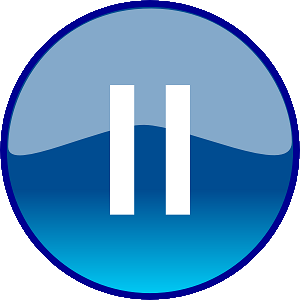
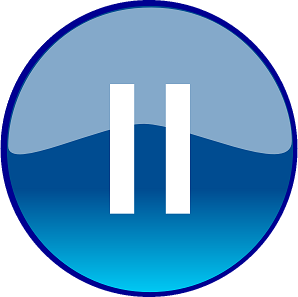
Put pause image on screen and improved the pause image

diff --git a/SpaceArcaders/src/net/awhipple/spacearcaders/views/GameState.java b/SpaceArcaders/src/net/awhipple/spacearcaders/views/GameState.java
@@ -19,8 +19,7 @@ public class GameState {
     
     private ResourceLibrary resourceLibrary;
     
-    private View curView, gf1, gf2;
-    boolean tabPressed = false;
+    private View curView, gf;
     
     public GameState(int SCREEN_W, int SCREEN_H, int TARGET_FPS) throws SlickException {
         this.screenWidth = SCREEN_W;
@@ -29,19 +28,11 @@ public class GameState {
         
         resourceLibrary = new ResourceLibrary();
         
-        gf1 = new GameField(resourceLibrary, screenWidth, screenHeight, targetFps);
-        gf2 = new GameField(resourceLibrary, screenWidth, screenHeight, targetFps);
-        curView = gf1;
+        gf = new GameField(resourceLibrary, screenWidth, screenHeight, targetFps);
+        curView = gf;
     }
 
     public void update(Input input) {
-        if(!input.isKeyDown(Input.KEY_TAB)) tabPressed = false;
-        if(input.isKeyDown(Input.KEY_TAB) && !tabPressed) {
-            tabPressed = true;
-            if(curView == gf1) curView = gf2;
-            else curView = gf1;
-        }
-        
         List<ViewInstruction> instructions = curView.update(input);
         if(instructions != null) {
             for(ViewInstruction instruction : instructions) {

diff --git a/SpaceArcaders/src/net/awhipple/spacearcaders/views/GameField.java b/SpaceArcaders/src/net/awhipple/spacearcaders/views/GameField.java
@@ -87,8 +87,7 @@ public final class GameField implements View{
     @Override
     public List<ViewInstruction> update(Input input) {
         if(enemyList.isEmpty()) {
-            if(numEnemies == 0) numEnemies = 1;
-            else numEnemies *= 2;
+            numEnemies++;
             for(int i = 0; i < numEnemies; i++) {
                 Enemy enemy = new Enemy((int)(Math.random()*SCREEN_W), -300, resourceLibrary.getImage("imp-red", true));
                 queueNewActor(enemy);
@@ -99,7 +98,7 @@ public final class GameField implements View{
         
         updateActors();
         
-        if(input.isKeyDown(Input.KEY_P)) return Collections.singletonList(new ViewInstruction(ViewInstruction.Set.SWITCH_VIEW, new Pause(this, null, SCREEN_W, SCREEN_H)));
+        if(input.isKeyDown(Input.KEY_P)) return Collections.singletonList(new ViewInstruction(ViewInstruction.Set.SWITCH_VIEW, new Pause(this, resourceLibrary.getImage("pause"), SCREEN_W, SCREEN_H)));
         return null;
     }
     

diff --git a/SpaceArcaders/src/net/awhipple/spacearcaders/views/Pause.java b/SpaceArcaders/src/net/awhipple/spacearcaders/views/Pause.java
@@ -27,6 +27,7 @@ public class Pause implements View{
     
     public Pause(View viewPausedFrom, Image pauseImage, int screenWidth, int screenHeight) {
         this.viewPausedFrom = viewPausedFrom;
+        this.pauseImage = pauseImage;
         this.screenWidth = screenWidth;
         this.screenHeight = screenHeight;
         
@@ -54,7 +55,8 @@ public class Pause implements View{
     @Override
     public void render() {
         viewPausedFrom.render();
-        mask.draw(0, 0, screenWidth, screenHeight, new Color(0,0,0,200));
+        mask.draw(0, 0, screenWidth, screenHeight, new Color(0,0,0,175));
+        pauseImage.draw(screenWidth/2-pauseImage.getWidth()/2,screenHeight/2-pauseImage.getHeight()/2);
     }
     
 }

diff --git a/SpaceArcaders/src/net/awhipple/spacearcaders/utils/ResourceLibrary.java b/SpaceArcaders/src/net/awhipple/spacearcaders/utils/ResourceLibrary.java
@@ -27,6 +27,7 @@ public class ResourceLibrary {
         imageLibrary.loadImage("imp-blue",      "data/images/imp-blue.png");
         
         imageLibrary.loadImage("particle",      "data/images/particle.png");
+        imageLibrary.loadImage("pause",         "data/images/pause.png");
         
         soundLibrary.loadSound("laser",         "data/sounds/laser.wav");
         soundLibrary.loadSound("explode",       "data/sounds/explode.wav");

diff --git a/SpaceArcaders/src/net/awhipple/spacearcaders/views/TitleScreen.java b/SpaceArcaders/src/net/awhipple/spacearcaders/views/TitleScreen.java
@@ -1,0 +1,13 @@
+/*
+ * To change this template, choose Tools | Templates
+ * and open the template in the editor.
+ */
+package net.awhipple.spacearcaders.views;
+
+/**
+ *
+ * @author Aaron
+ */
+public class TitleScreen {
+    
+}
